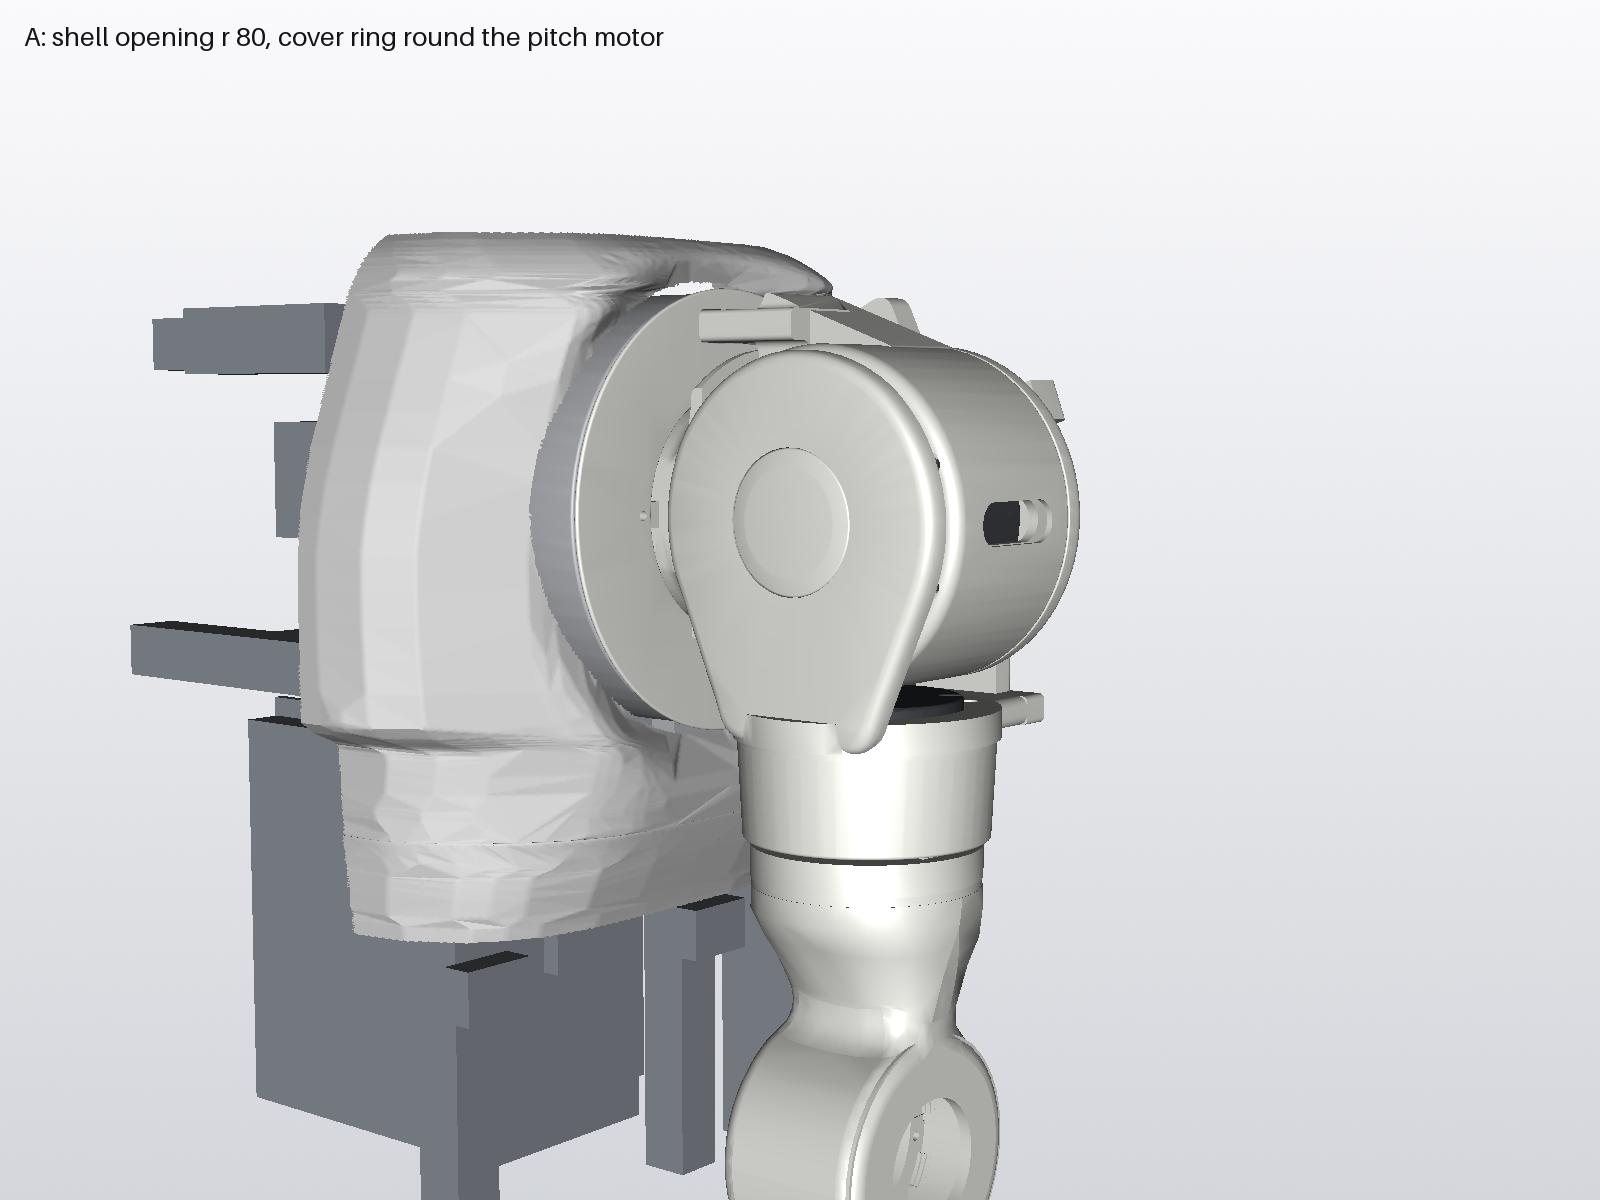
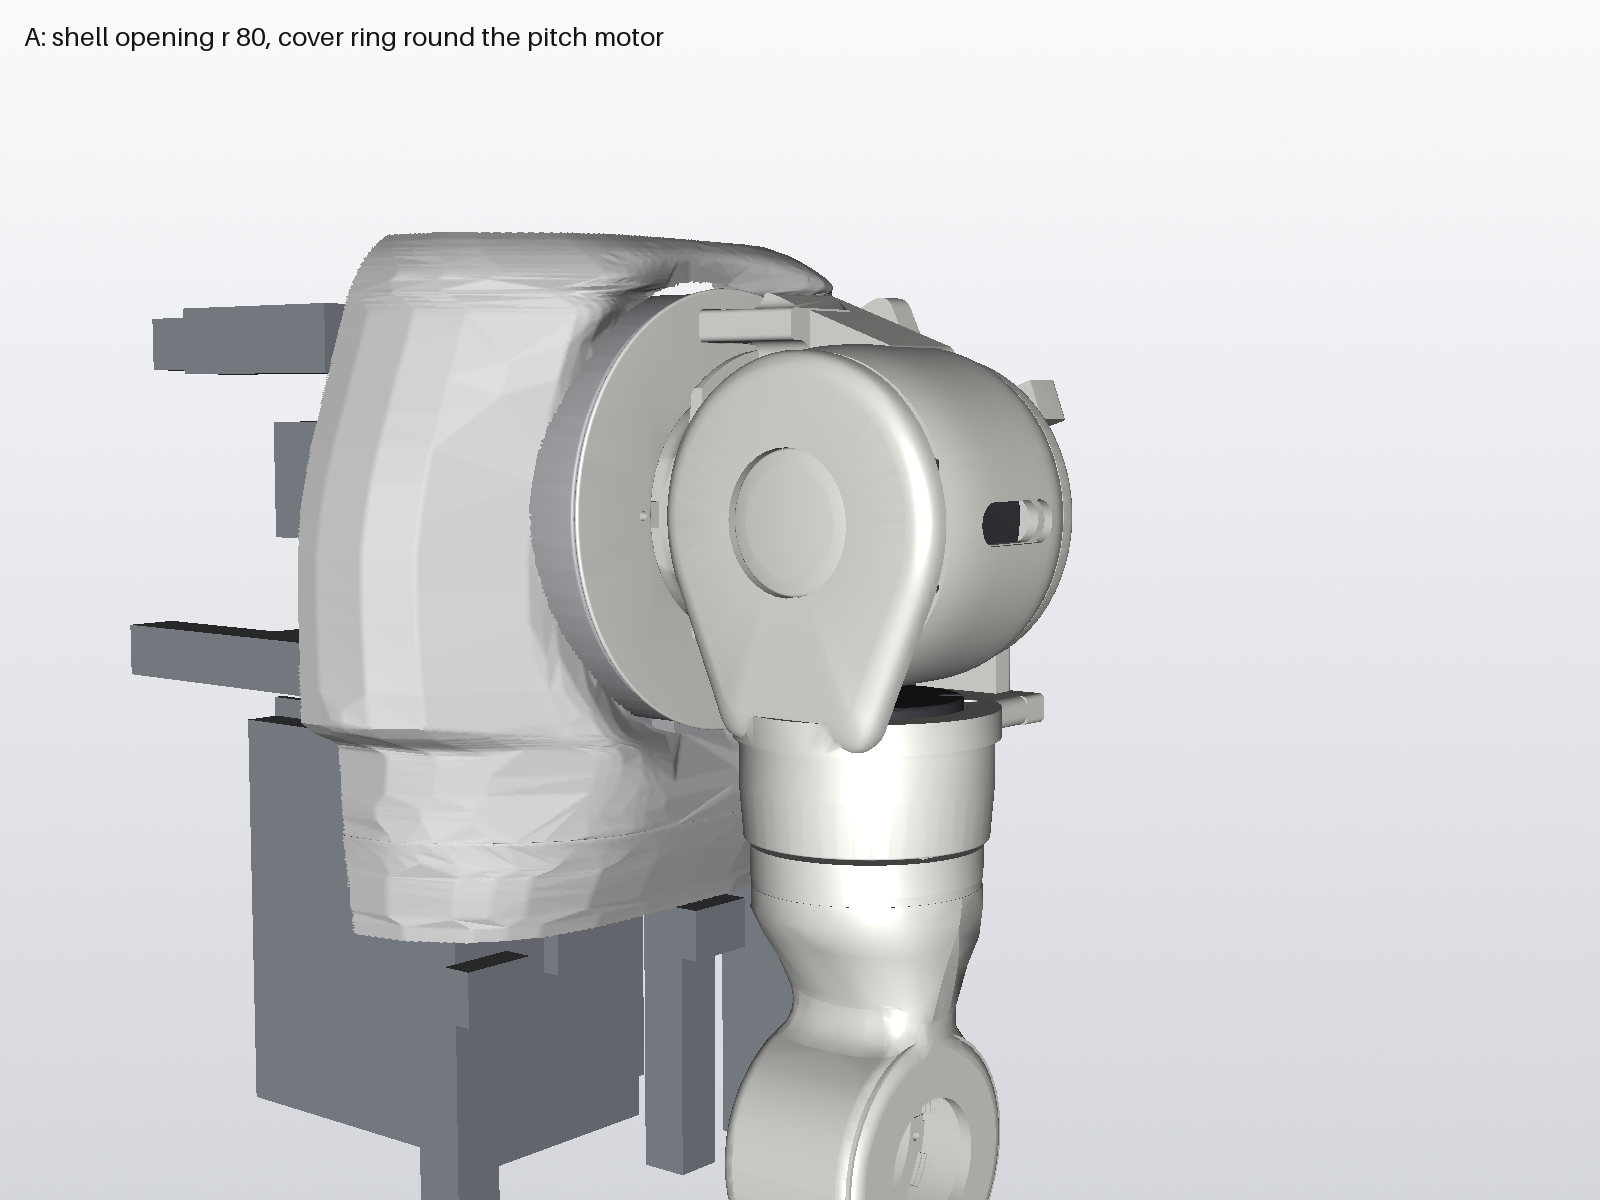
cad: left shoulder first SolidWorks pass: organic round, interim
Drum skin is now a loft through crowned circles (r 54.5 at both ends,
r 57 over the middle, the most the RS02 swing allows), with pockets
under it following the crown; the rear cap rim continues the drum's
r 54.5 end. Fork front face crowns forward to Z 49 (elliptical loft) and
the press-in cap sits 1.5 mm below its rim, as on the arm; more pockets
behind the dome. Cuff swells instead of a straight cone, 1.6 mm wall at
the hub. Trunk on the neck gets R5 edges.

Mass, solid PETG: drum 229.7, fork front 147.4, cap 75.3, fork cap 5.5;
shoulder about 608 g. Clearance sweep on these parts still running.

diff --git a/cad/scripts/shoulder/build_parts.py b/cad/scripts/shoulder/build_parts.py
@@ -119,8 +119,10 @@ def build_drum():
     extrude(d, sk, 'CLIP_REAR', 40, NZ, cut=True)
     # drum: smooth revolved wall with a rounded rear rim and a rounded front lip
     # DRESSED: one closed drum, r 48-57, rounded rear rim and a full round on the front lip; pockets under the skin below
-    roll_rev(d, 'DRUM', [(DRUM_RI, DRUM_Z0), (DRUM_RO, DRUM_Z0), (DRUM_RO, LIP_Z1), (LIP_RI, LIP_Z1), (LIP_RI, LIP_Z0), (DRUM_RI, LIP_Z0)],
-             [0, 1.5, 5.0, 0.8, 0, 0])
+    # ORGANIC: crowned skin, a loft through circles about the roll axis; the bore and lip opening are cut below
+    secs = [zsk(d, z, f'DRUM_S{i}', lambda s, z=z, r=r: s.circle((RX, RY, z), r)) for i, (z, r) in enumerate(DRUM_CROWN)]
+    loft(d, secs, 'DRUM')
+    roll_rev(d, 'LIP_BORE', [(0, LIP_Z0), (LIP_RI, LIP_Z0), (LIP_RI, LIP_Z1 + 1), (0, LIP_Z1 + 1)], cut=True)
     # cap ears
     extrude(d, zsk(d, DRUM_Z0, 'EARS', lambda s: [s.circle(rpt(EAR_PCD, a, DRUM_Z0), EAR_R) for a in EAR_ANGLES]), 'EARS', 9.0, Z)
     # spokes for the flange ring
@@ -167,7 +169,7 @@ def build_drum():
         extrude(d, zsk(d, DRUM_Z0 - 1, 'SPINE_POCKET', spine_pock), 'SPINE_POCKET', zf - WALL - (DRUM_Z0 - 1), Z, cut=True)
     # DRESSED: soften the trunk shells (long edges)
     along_x = lambda a, b: abs(a[0] - b[0]) > 10.0 and abs(a[1] - b[1]) < 0.05 and abs(a[2] - b[2]) < 0.05
-    fillet(d, edges_where(d, lambda p: p[1] > 482.0, along_x), [3.0, 2.0], 'TRUNK_A_ROUND')
+    fillet(d, edges_where(d, lambda p: p[1] > 482.0, along_x), [5.0, 4.0, 3.0, 2.0], 'TRUNK_A_ROUND')
     along_z = lambda a, b: abs(a[2] - b[2]) > 10.0 and abs(a[0] - b[0]) < 0.05 and abs(a[1] - b[1]) < 0.05
     fillet(d, edges_where(d, lambda p: p[1] > 470.0 and abs(p[0] - TRUNK_X) < 25.0 and p[2] < 7.0, along_z), [3.0, 2.0], 'TRUNK_B_ROUND')
     # ---- cuts
@@ -199,10 +201,12 @@ def build_drum():
     extrude(d, zsk(d, zs, 'BRANCH_S', lambda s: s.rpoly(seg_rect((b0[0], b0[1], zs), (b1[0], b1[1], zs), bn, SH, 2, 6), [1, 1, 1, 1])),
             'BRANCH_S', SW, NZ, cut=True)
     # pockets between the lug ribs, under the skin (rib half-width 8 at r 53)
-    def pockets(s):
-        for th in LUG_ANGLES:
-            sector(s, lambda r, a: rpt(r, a, POCKET_Z[0]), WALL_RO, SKIN_RI, th + 9.0, th + 36.0, 1.5)
-    extrude(d, zsk(d, POCKET_Z[0], 'POCKETS', pockets), 'POCKETS', POCKET_Z[1] - POCKET_Z[0], Z, cut=True)
+    # pockets under the crowned skin: r 54 at the ends, r 55 over the middle band where the crown is r 57
+    for nm, z0_, z1_, ro_ in (('POCKETS', POCKET_Z[0], POCKET_Z[1], SKIN_RI), ('POCKETS_MID', -13.0, 13.0, SKIN_RI + 1.0)):
+        def pockets(s, z0_=z0_, ro_=ro_):
+            for th in LUG_ANGLES:
+                sector(s, lambda r, a: rpt(r, a, z0_), WALL_RO, ro_, th + 9.0, th + 36.0, 0.8)
+        extrude(d, zsk(d, z0_, nm, pockets), nm, z1_ - z0_, Z, cut=True)
     # window over the roll RS03 top connector bay, inside the skin (the branch channels open the skin where they pass)
     tw = TOPWIN
     extrude(d, zsk(d, DRUM_Z0 - 1, 'TOP_WINDOW', lambda s: s.rpoly(rect_pts((RX, RY + 47.25, DRUM_Z0 - 1), X, Y, 2 * tw['x'], 14.5), [3, 3, 3, 3])),
@@ -256,8 +260,8 @@ def stop_lug(d, ax, key, phi_deg, lug_side):
 
 def build_cap():
     d = new_part(OUT / f"{NAMES['cap']}.SLDPRT")
-    roll_rev(d, 'CAP', [(0, DRUM_Z0), (BOSS_R, DRUM_Z0), (BOSS_R, CAP_Z1 + CAP_T), (DRUM_RO - RIM_T, CAP_Z1 + CAP_T), (DRUM_RO - RIM_T, DRUM_Z0),
-                        (DRUM_RO, DRUM_Z0), (DRUM_RO, CAP_Z1), (LAND_R, CAP_Z1), (LAND_R, LAND_Z), (STUB_R, LAND_Z), (STUB_R, BRG_Z[1]),
+    roll_rev(d, 'CAP', [(0, DRUM_Z0), (BOSS_R, DRUM_Z0), (BOSS_R, CAP_Z1 + CAP_T), (CAP_RIM_R - RIM_T, CAP_Z1 + CAP_T), (CAP_RIM_R - RIM_T, DRUM_Z0),
+                        (CAP_RIM_R, DRUM_Z0), (CAP_RIM_R - 1.0, CAP_Z1), (LAND_R, CAP_Z1), (LAND_R, LAND_Z), (STUB_R, LAND_Z), (STUB_R, BRG_Z[1]),
                         (0, BRG_Z[1])], [0, 0.8, 1.5, 1.5, 0.5, 0.5, 6.0, 1.0, 0.3, 0.3, 0.6, 0])
     # spoke from the trunk end to the axis, carrying the radial channel
     dvec = np.array([RX - TRUNK_X, RY - TRUNK_Y, 0.0])
@@ -323,14 +327,15 @@ def ypt(r, a, y):
 def build_fork_front():
     d = new_part(OUT / f"{NAMES['fork_front']}.SLDPRT")
     dm = DOME
-    hull = lambda k: hull_pts([(RX, RY, dm['r'] - k), (RX - 22, 362.0, 10.0 - k), (RX + 22, 362.0, 10.0 - k)])
-    z0, z1, e = FRONT_Z[0], FRONT_Z[1], dm['edge']
-    extrude(d, zsk(d, z0, 'CHEEK', lambda s: s.spline([(x, y, z0) for x, y in hull(0.0)])), 'CHEEK', z1 - e - z0, Z)
-    # soft front edge: loft through insets of a quarter round (R5)
+    hull = lambda k: hull_pts([(RX, RY, dm['r'] - k), (RX - 22, 362.0 + 0.5 * k, max(10.0 - k, 3.0)), (RX + 22, 362.0 + 0.5 * k, max(10.0 - k, 3.0))])
+    fc = FRONT_CROWN
+    z0, z1 = FRONT_Z[0], fc['z1']
+    extrude(d, zsk(d, z0, 'CHEEK', lambda s: s.spline([(x, y, z0) for x, y in hull(0.0)])), 'CHEEK', fc['z0'] - z0, Z)
+    # ORGANIC: the face crowns forward, an elliptical quarter (12 mm in, 7 mm forward) lofted through insets
     secs = []
-    for i, a in enumerate((0.0, 30.0, 60.0, 85.0)):
+    for i, a in enumerate((0.0, 25.0, 50.0, 70.0, 86.0)):
         t = math.radians(a)
-        zz, k = z1 - e + e * math.sin(t), e * (1 - math.cos(t))
+        zz, k = fc['z0'] + (fc['z1'] - fc['z0']) * math.sin(t), fc['inset'] * (1 - math.cos(t))
         secs.append(zsk(d, zz, f'CHEEK_EDGE{i}', lambda s, zz=zz, k=k: s.spline([(x, y, zz) for x, y in hull(k)])))
     loft(d, secs, 'CHEEK_EDGE')
     extrude(d, zsk(d, ROLL_OUT, 'BOSS', lambda s: s.circle((RX, RY, ROLL_OUT), 22.0)), 'BOSS', FRONT_Z[0] + 0.5 - ROLL_OUT, Z)
@@ -342,8 +347,8 @@ def build_fork_front():
             'TAP_SECTOR', SEAT_Y[1] - SEAT_Y[0], Y)
     # DRESSED: cuff round the RS02 housing, down to just above the hub
     cf = CUFF
-    yaw_rev(d, 'CUFF', [(cf['ri'], cf['y0']), (cf['ro_bot'], cf['y0']), (cf['ro_top'], SEAT_Y[0] - 2.0), (cf['ro_top'], SEAT_Y[0] + 2.0),
-                        (cf['ri'], SEAT_Y[0] + 2.0)], [0.8, 1.2, 6.0, 0, 0])
+    yaw_rev(d, 'CUFF', [(cf['ri'], cf['y0']), (cf['ro_bot'], cf['y0']), cf['ro_mid'], (cf['ro_top'], SEAT_Y[0] - 2.0), (cf['ro_top'], SEAT_Y[0] + 2.0),
+                        (cf['ri'], SEAT_Y[0] + 2.0)], [0.5, 0.7, 12.0, 0, 0, 0])   # ORGANIC: a convex swell, not a cone
     ym = (SEAT_Y[0] + SEAT_Y[1]) / 2
     extrude(d, zsk(d, JZ0, 'JOINT_PAD', lambda s: s.rpoly(rect_pts((RX, ym, JZ0), X, Y, 2 * JX, SEAT_Y[1] - SEAT_Y[0]), [4, 4, 4, 4])),
             'JOINT_PAD', -30.0 - JZ0, Z)
@@ -359,8 +364,8 @@ def build_fork_front():
     extrude(d, ysk(d, SEAT_Y[0] - 1, 'SEAT_BORE', lambda s: s.circle((RX, SEAT_Y[0] - 1, YZ), SEAT_RI)), 'SEAT_BORE', 12, Y, cut=True)
     extrude(d, zsk(d, ROLL_OUT - 1, 'ROLL_BORE', lambda s: s.circle((RX, RY, ROLL_OUT - 1), 10.75)), 'ROLL_BORE', 30, Z, cut=True)
     extrude(d, zsk(d, ROLL_OUT - 1, 'OUT_HOLES', lambda s: [s.circle(rpt(15.2, 30 + 60 * k, ROLL_OUT - 1), 2.25) for k in range(6)]), 'OUT_HOLES', 30, Z, cut=True)
-    extrude(d, zsk(d, FRONT_Z[1] - 4, 'OUT_CB', lambda s: [s.circle(rpt(15.2, 30 + 60 * k, FRONT_Z[1] - 4), 4.25) for k in range(6)]), 'OUT_CB', 10, Z, cut=True)
-    extrude(d, zsk(d, FRONT_Z[1] - 2, 'CAP_RECESS', lambda s: s.circle((RX, RY, FRONT_Z[1] - 2), 24.0)), 'CAP_RECESS', 5, Z, cut=True)
+    extrude(d, zsk(d, CAP_FLOOR - 2, 'OUT_CB', lambda s: [s.circle(rpt(15.2, 30 + 60 * k, CAP_FLOOR - 2), 4.25) for k in range(6)]), 'OUT_CB', 10, Z, cut=True)
+    extrude(d, zsk(d, CAP_FLOOR, 'CAP_RECESS', lambda s: s.circle((RX, RY, CAP_FLOOR), 24.0)), 'CAP_RECESS', 8, Z, cut=True)
     extrude(d, ysk(d, SEAT_Y[0] - 5, 'RS02_HOLES', lambda s: [s.circle(ypt(36.5, a, SEAT_Y[0] - 5), 1.8) for a in RS02_SCREWS]), 'RS02_HOLES', 30, Y, cut=True)
     extrude(d, ysk(d, SEAT_Y[1] - 3.5, 'RS02_CB', lambda s: [s.circle(ypt(36.5, a, SEAT_Y[1] - 3.5), 3.3) for a in RS02_SCREWS]), 'RS02_CB', 10, Y, cut=True)
     extrude(d, ysk(d, SEAT_Y[0] - 1, 'SOCKETS', lambda s: [sector(s, lambda r, a: ypt(r, a, SEAT_Y[0] - 1), 30.0, 40.5, a0, a1, 1.5) for a0, a1 in SOCKET_POCKETS]),
@@ -414,8 +419,9 @@ def build_fork_rear():
 # ==================================================================================================== fork press-in cap
 def build_fork_cap():
     d = new_part(OUT / f"{NAMES['fork_cap']}.SLDPRT")
-    z0 = FRONT_Z[1] - 2
-    roll_rev(d, 'CAP', [(0, z0), (23.8, z0), (23.8, FRONT_Z[1]), (18.0, FRONT_Z[1] + 1.1), (0, FRONT_Z[1] + 1.5)], [0, 0.4, 0.8, 4.0, 0])
+    z0 = CAP_FLOOR
+    zt = FRONT_CROWN['z1'] - 1.5           # recessed 1.5 below the crown at its rim, like the arm's caps
+    roll_rev(d, 'CAP', [(0, z0), (23.8, z0), (23.8, zt - 1.0), (18.0, zt), (0, zt + 0.8)], [0, 0.4, 1.0, 6.0, 0])
     return finish_part(d, 'fork_cap')
 
 

diff --git a/cad/scripts/shoulder/dims.py b/cad/scripts/shoulder/dims.py
@@ -31,13 +31,18 @@ EAR_ANGLES = [125.0, 148.0, 212.0]   # cap screws, inboard/top; CHANGED from 130
 EAR_R, EAR_PCD = 7.5, 61.0
 WIN_ANGLES = [0.0, 45.0, 135.0, 225.0, 270.0, 315.0]   # windows in the inner wall into the pockets under the skin
 PORT_ANGLE = 0.0                 # the one window through the skin: driver access to the 6 pitch pad screws (styled oval port)
-SKIN_RI = 55.0                   # DRESSED: closed outer skin r 55-57 over the roll RS03; pockets r 51.5-55 between the lug ribs
+SKIN_RI = 54.0                   # DRESSED: closed outer skin r 55-57 over the roll RS03; pockets r 51.5-55 between the lug ribs
 POCKET_Z = (DRUM_Z0 + 4.0, LIP_Z0 - 3.0)
+DRUM_CROWN = [(DRUM_Z0, 54.5), (-24.0, 56.2), (-14.0, 57.0), (14.0, 57.0), (27.0, 56.2), (33.0, 55.2), (LIP_Z1, 54.5)]
+# ORGANIC: the drum skin is a loft through these (Z, r) circles: crowned, r 57 at most (RS02 passes 2.6 mm below it)
+CAP_RIM_R = 54.5                 # ORGANIC: the cap rim continues the drum's rear end
+FRONT_CROWN = dict(z0=42.0, z1=49.0, inset=9.0)   # ORGANIC: the fork front face crowns forward to Z 49 (was flat at 47)
+CAP_FLOOR = 45.0                 # floor of the press-in cap recess (cap top 48.5: 0.5 below the crown, like the arm's caps)
 FLARE = dict(x0=105.0, x1=119.0, x2=124.0, r=56.0, fillet=12.0)   # DRESSED: neck flares into the drum (pitch axis)
-CUFF = dict(ri=39.75, ro_top=43.5, ro_bot=41.7, y0=317.8, notch=(-122.0, -78.0))
+CUFF = dict(ri=39.75, ro_top=43.0, ro_bot=41.35, ro_mid=(42.9, 336.0), y0=317.8, notch=(-122.0, -78.0))
 # DRESSED 2: cuff round the RS02 housing (r 39.25), tapering to r 41.7 and down to 2 mm above the hub rim (Y 315.8), to
 # continue the arm's top (r 39 at Y 302); notched round the fork rear's yaw exit
-DOME = dict(r=55.0, edge=5.0, back_t=2.4, pocket_r=(24.5, 52.6), pockets=[(-20.0, 40.0), (50.0, 130.0), (140.0, 200.0)])
+DOME = dict(r=55.0, edge=5.0, back_t=2.4, pocket_r=(24.5, 52.6), pockets=[(-20.0, 40.0), (50.0, 130.0), (140.0, 200.0), (212.0, 252.0), (288.0, 328.0)])
 # DRESSED 2: fork front as a full dome cap r 55 (drum skin r 57: the dome sits 3 mm in front of the lip face), R5-ish
 # front edge (arm cheeks R5, drum R7), pocketed from the back
 RS03_BUMP = dict(x0=RX - 53.0, x1=RX - 46.0, y=9.5, z0=18.6)   # relief for the RS03 housing boss at r 50.25 inboard (Z 19.6-28.1)
